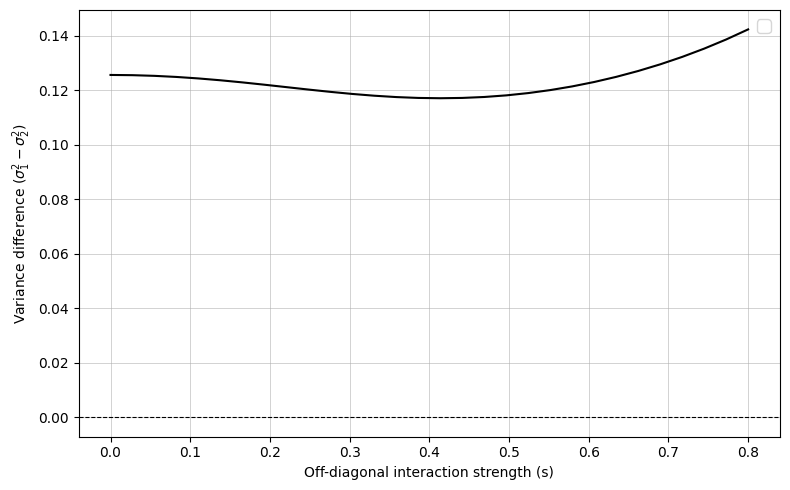
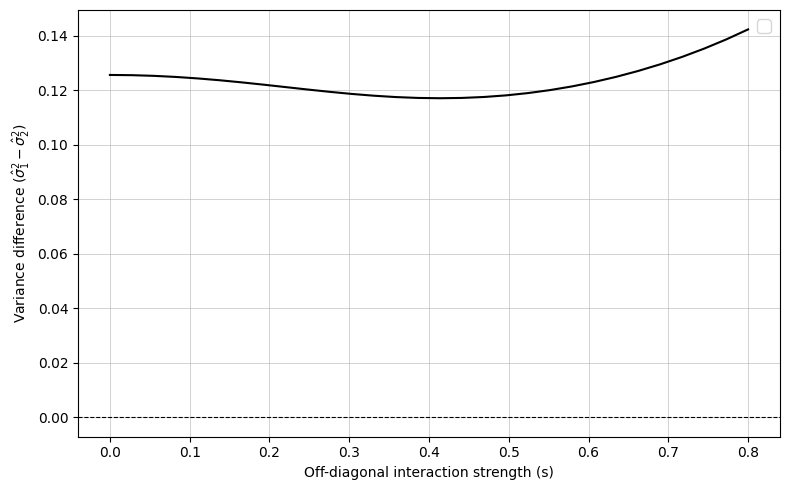
Refactor import paths and update plot labels for consistency; adjust heatmap colorbar formatting

diff --git a/Application_2.py b/Application_2.py
@@ -2,7 +2,7 @@ import numpy as np
 import matplotlib.pyplot as plt
 from scipy import optimize
 from scipy.stats import norm, truncnorm
-from Benchmark.Theory import compute_fixed_point_final
+from Theory import compute_fixed_point_final
 
 # ------------------ Plotting Functions ------------------ #
 
@@ -30,7 +30,7 @@ def plot_gamma_vs_s(beta, rho, r, s_min=0.2, s_max=1.4, num_points=100):
         )
 
     plt.xlabel("Off-diagonal interaction strength (s)")
-    plt.ylabel(r"$\gamma_i$ (persistence)")
+    plt.ylabel(r"$\gamma_k$ (persistence)")
     plt.legend(fontsize=13)
     plt.grid(True, linewidth=0.4)
     plt.tight_layout()
@@ -60,7 +60,7 @@ def plot_sigma_vs_s(beta, rho, r, s_min=0.2, s_max=1.4, num_points=100):
         )
 
     plt.xlabel("Off-diagonal interaction strength (s)")
-    plt.ylabel(r"$\sigma^2_i$ (Variance)")
+    plt.ylabel(r"$\hat{\sigma}^2_k$ (variance)")
     plt.legend(fontsize=13)
     plt.grid(True, linewidth=0.4)
     plt.tight_layout()
@@ -80,7 +80,7 @@ def plot_sigma_diff_vs_s(beta, rho, r, s_min=0.2, s_max=1.4, num_points=100):
     plt.figure(figsize=(8, 5))
     plt.plot(s_values, variance_diff, color='black')
     plt.xlabel("Off-diagonal interaction strength (s)")
-    plt.ylabel(r"Variance difference $(\sigma_1^2 - \sigma_2^2)$")
+    plt.ylabel(r"Variance difference $(\hat{\sigma}_1^2 - \hat{\sigma}_2^2)$")
     plt.axhline(0.0, color="black", linewidth=0.8, linestyle="--")
     plt.legend(fontsize=13)
     plt.grid(True, linewidth=0.4)

diff --git a/Application_3.py b/Application_3.py
@@ -2,7 +2,7 @@ import numpy as np
 import matplotlib.pyplot as plt
 from matplotlib.ticker import FormatStrFormatter
 import seaborn as sns
-from Benchmark.Theory import compute_fixed_point_final
+from Theory import compute_fixed_point_final
 
 def heatmap_gamma1_vs_s12_s21(beta, r, s12_range, s21_range, s_diag=(0.5, 0.5), num_points=50):
     """
@@ -48,17 +48,22 @@ def heatmap_gamma1_vs_s12_s21(beta, r, s12_range, s21_range, s_diag=(0.5, 0.5), 
             gamma1_grid[j, i] = gamma[0]  # gamma_1 as Z-axis
 
     plt.figure(figsize=(8, 6))
+    vmin, vmax = 0.85, 1.0
     ax = sns.heatmap(
         gamma1_grid,
         xticklabels=np.round(s12_values, 2),
         yticklabels=np.round(s21_values, 2),
         cmap="Greys_r",
-        cbar_kws={'label': r'$\gamma_i$'},
+        vmin=vmin,
+        vmax=vmax,
+        cbar_kws={'label': r'$\gamma_k$'},
         square=True
     )
 
     cbar = ax.collections[0].colorbar
-    cbar.ax.yaxis.set_major_formatter(FormatStrFormatter('%.1f'))
+    cbar.set_ticks(np.linspace(vmin, vmax, num=6))
+    cbar.ax.yaxis.set_major_formatter(FormatStrFormatter('%.2f'))
+    cbar.update_ticks()
     cbar.ax.tick_params(labelsize=12)
     plt.xlabel(r"$s_{12}$ (Community 2 → 1)")
     plt.ylabel(r"$s_{21}$ (Community 1 → 2)")

diff --git a/Application_1.py b/Application_1.py
@@ -1,7 +1,7 @@
 import numpy as np
 import matplotlib.pyplot as plt
 
-from Benchmark.Theory import compute_fixed_point_final
+from Theory import compute_fixed_point_final
 
 
 def sweep_rho11(
@@ -61,7 +61,7 @@ if __name__ == "__main__":
     plot_vs_rho11(
         rho11_values,
         gamma_values,
-        y_label=r"$\gamma_i$ (persistence)",
+        y_label=r"$\gamma_k$ (persistence)",
         ax=ax_gamma,
     )
     fig_gamma.tight_layout()
@@ -70,7 +70,7 @@ if __name__ == "__main__":
     plot_vs_rho11(
         rho11_values,
         variance_values,
-        y_label=r"$\sigma^2_i$ (Variance)",
+        y_label=r"$\hat{\sigma}^2_k$ (variance)",
         ax=ax_var,
     )
     fig_var.tight_layout()
